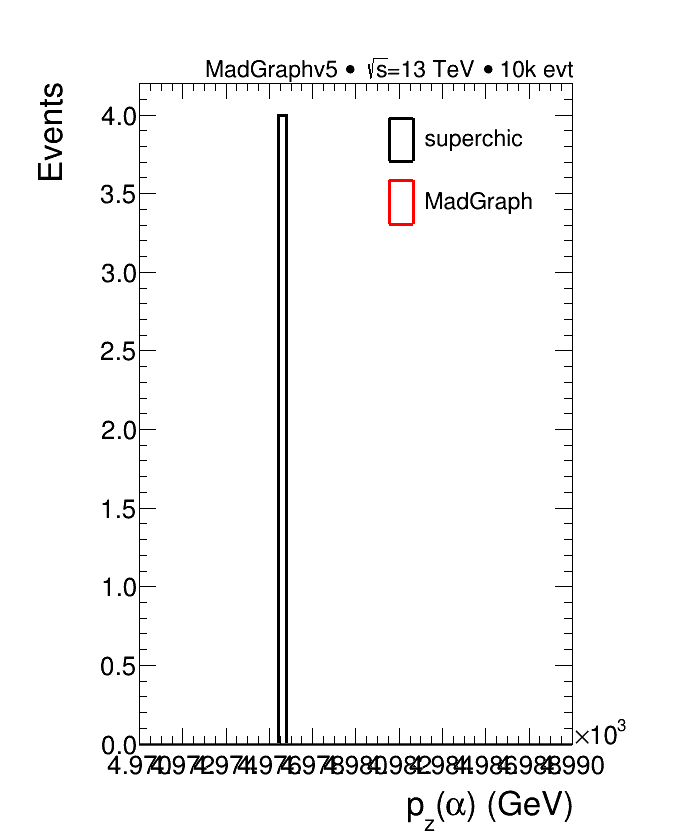
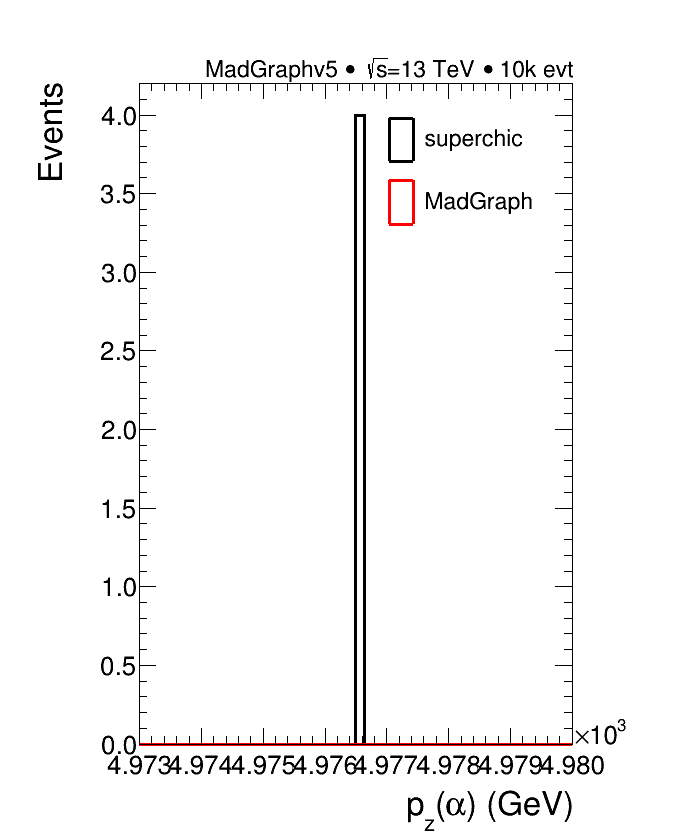
Atualização

Changed region(s): [[0.2106, 0.1244, 0.8424, 0.933]]

diff --git a/graficos/grafico_final_full.py b/graficos/grafico_final_full.py
@@ -102,10 +102,12 @@ protpz          = [];
 proten          = [];
 protxi          = []
 protpt          = []
+mpp             = []
 monpz           = []
 monen           = []
 monpt           = []
 phopz           = []
+phopt           = []
 # 3D:
 DDDpt1pt2	= [];
 DDDphi1phi2	= [];
@@ -135,10 +137,10 @@ TGaxis.SetMaxDigits(2)
 
 # SORTING THE DISTRIBUTIONS WITHIN THE SETS:
 # THE ARRAYS STORE THE LABELS FOR AXIS AND UNITS:
-histoslog        = [protpz,proten,protxi,protpt,monpz,monen,monpt,phopz];
-histoslog_label  = ["protpz","proten",'protxi','protpt',"monpz","monen","monpt",'phopz'];
-histoslog_axis   = ["p_{z}(p)","E(p)",'#chi(p)','p_{T}(p)',"p_{z}(m?)","E(m?)","p_{T}(m?)",'p_{z}(#alpha)'];
-histoslog_varx   = ["(GeV)","(GeV)",'','(GeV)',"(GeV)","(GeV)","(GeV)",'(GeV)'];
+histoslog        = [protpz,proten,protxi,protpt,mpp,monpz,monen,monpt,phopz,phopt];
+histoslog_label  = ["protpz","proten",'protxi','protpt','mpp',"monpz","monen","monpt",'phopz','phopt'];
+histoslog_axis   = ["p_{z}(p)","E(p)",'#chi(p)','p_{T}(p)','M(p^{+}p^{-})',"p_{z}(m?)","E(m?)","p_{T}(m?)",'p_{z}(#alpha)','p_{T}(#alpha)'];
+histoslog_varx   = ["(GeV)","(GeV)",'','(GeV)','(GeV)',"(GeV)","(GeV)","(GeV)",'(GeV)','(GeV)'];
 
 
 #histoslog        = [invm_decay,pt_decay,ptsum_decay,eta_ecay,phi_decay,E_decay,dpt_decay,acop,acop_zoom,dphi,dphi_zoom,protpz,proten, monpz];
@@ -183,10 +185,12 @@ for i in range(len(FILES)):
     proten.append(TH1D("1D_proten"+"_"+PDF[i]       , "", 50,4300., 7200.))
     protxi.append(TH1D("1D_protxi"+"_"+PDF[i]       , "", 50,0., .03))
     protpt.append(TH1D("1D_protpt"+"_"+PDF[i]       , "", 50,-0.1, 1.))
+    mpp.append(TH1D("1D_mpp"+"_"+PDF[i]       , "", 50,0., 100.)) # pico do superchic em 466. (erro ?)
     monpz.append(TH1D("1D_monpz"+"_"+PDF[i]       , "", 50,-5000., 5000.))
     monen.append(TH1D("1D_monen"+"_"+PDF[i]       , "", 50,700., 4000.))
     monpt.append(TH1D("1D_monpt"+"_"+PDF[i]       , "", 50,0., 1.3))
-    phopz.append(TH1D("1D_phopz"+"_"+PDF[i]       , "", 50,4970., 4990.))
+    phopz.append(TH1D("1D_phopz"+"_"+PDF[i]       , "", 50,4973., 4980.))
+    phopt.append(TH1D("1D_phopt"+"_"+PDF[i]       , "", 50,0., 500.))
     #DDDpt1pt2.append(TH2D("3D_pt1_pt2_"+PDF[i]      , "", 50,  0.,  70., 50, 0.,  70.));
     #DDDphi1phi2.append(TH2D("3D_phi1_phi2_"+PDF[i]  , "", 45,  0., 180., 45, 0., 180.));
     #DDDptsumphi.append(TH2D("3D_ptsum_phi_"+PDF[i]	, "", 50,  0., 160., 45, 0., 180.));
@@ -225,7 +229,7 @@ for i in range(len(FILES)):
         for j in range(88): # skip first 434 lines to avoid MG5 comments
             f.readline()
     elif (i == 1):
-        for j in range(431): # skip first 431 lines to avoid MG5 comments
+        for j in range(371): # skip first 431 lines to avoid MG5 comments
             f.readline()
     elif (i == 2):
         for j in range(430): # skip first 430 lines to avoid MG5 comments
@@ -409,14 +413,19 @@ for i in range(len(FILES)):
                 proten[i].Fill(dpm.E())
                 protxi[i].Fill(1-(dpp.Pz()/6800))
                 protxi[i].Fill(1-(dpm.Pz()/(-6800)))
+                mpp[i].Fill(sqrt((1-(dpp.Pz()/6800))*(1-(dpm.Pz()/(-6800))))*6800)
                 if i == 0:
                     protpt[i].Fill(sqrt(dpp.Px()**2 + dpp.Py()**2))
                     protpt[i].Fill(sqrt(dpm.Px()**2 + dpm.Py()**2))
                     monpz[i].Fill(dmo.Pz())
                     monen[i].Fill(dmo.E())
                     monpt[i].Fill(dmo.Pt())
+                    phopt[i].Fill(dp.Pt())
+                    phopt[i].Fill(dm.Pt())
+
                 phopz[i].Fill(dp.Pz())
                 phopz[i].Fill(dm.Pz())
+
                 '''
                 invm_decay[i].Fill((dp+dm).M());
                 pt_decay[i].Fill(dp.Pt());
